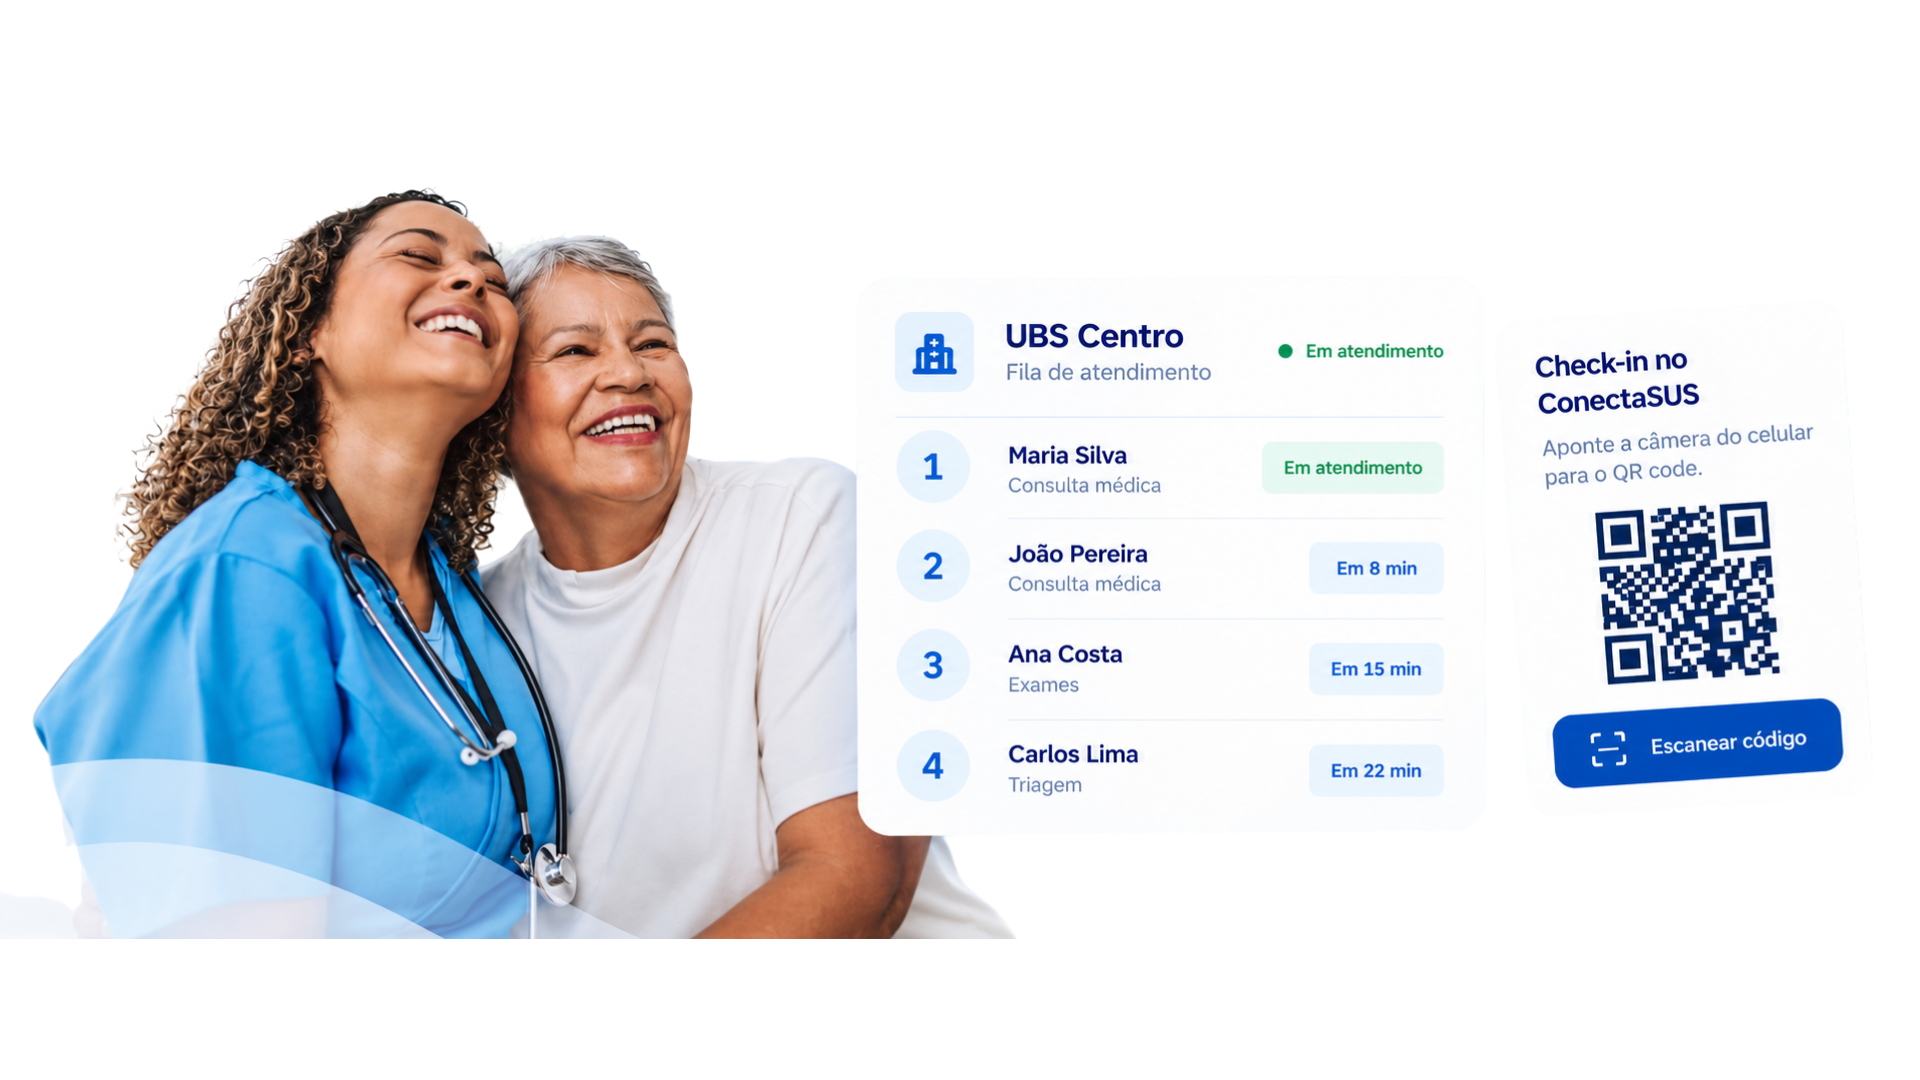
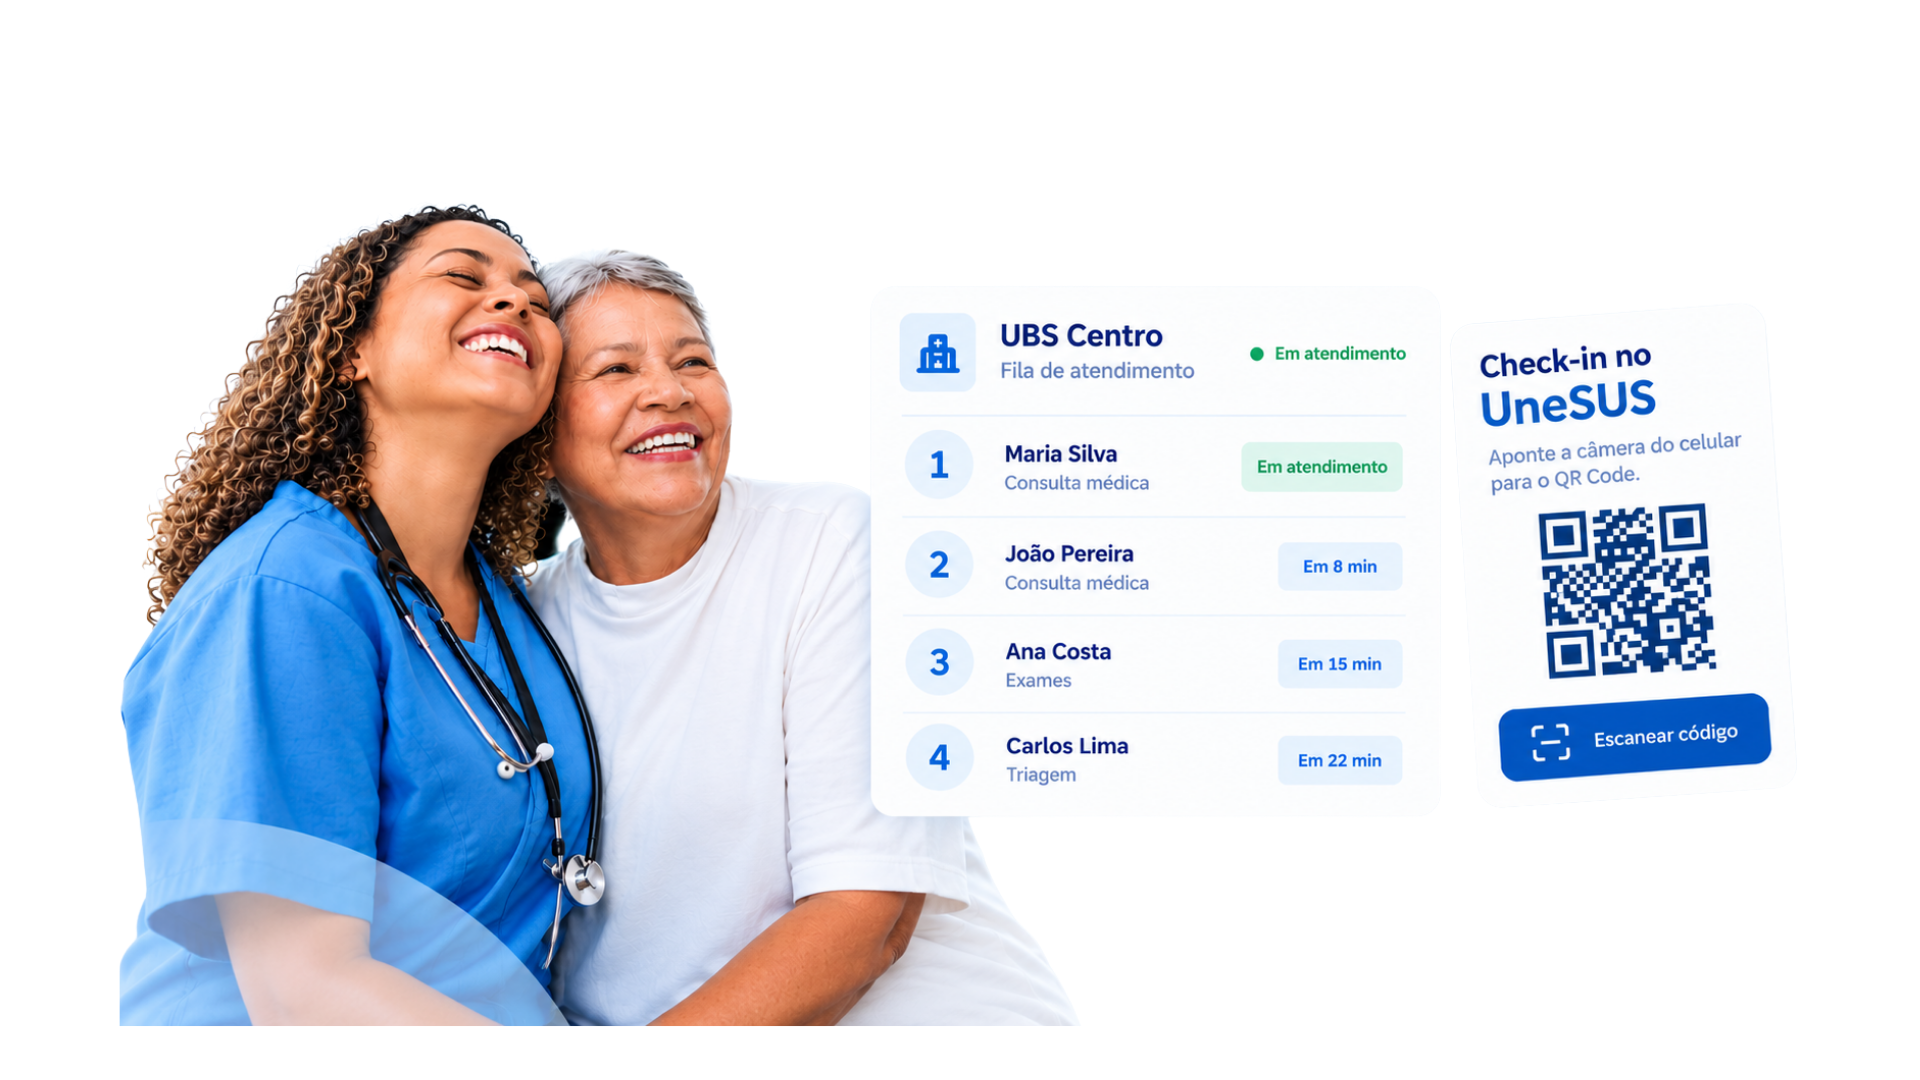
dashboard do publico

diff --git a/frontend/src/app/publico/dashboard/page.jsx b/frontend/src/app/publico/dashboard/page.jsx
@@ -267,9 +267,9 @@ export default function Home() {
 
         {/* DESTAQUES */}
         <div
-          id="unidades"
-          className="mt-12 grid gap-5 rounded-2xl bg-white/70 p-5 shadow-sm sm:p-6 md:grid-cols-3 md:gap-0 md:px-7 md:py-8"
-        >
+  id="unidades"
+  className="mt-20 grid gap-5 rounded-2xl bg-white/70 p-5 shadow-sm sm:p-6 md:grid-cols-3 md:gap-0 md:px-7 md:py-8"
+>
           <div className="flex items-center gap-4 md:border-r md:border-[#3563A7]/30 md:px-4 lg:px-7">
             <div className="flex h-[58px] w-[58px] shrink-0 items-center justify-center rounded-2xl bg-[#EAF3F7] text-[#023E8A] sm:h-[68px] sm:w-[68px]">
               <Icone tipo="users" className="h-8 w-8 sm:h-9 sm:w-9" />
@@ -334,7 +334,7 @@ export default function Home() {
       </span>
 
       <h2 className="mt-5 text-3xl font-extrabold leading-tight sm:text-4xl lg:text-5xl">
-        Sobre o <span className="text-[#023E8A]">ConectaSUS</span>
+        Sobre o <span className="text-[#023E8A]">UneSUS</span>
       </h2>
 
       <p className="mt-6 text-base leading-relaxed text-[#0B1756]/75 sm:text-lg">
@@ -343,7 +343,7 @@ export default function Home() {
       </p>
 
       <p className="mt-5 text-base leading-relaxed text-[#0B1756]/75 sm:text-lg">
-        Por isso, o ConectaSUS propõe aproximar a tecnologia da
+        Por isso, o UneSUS propõe aproximar a tecnologia da
         saúde pública, ajudando a organizar filas, facilitar o
         acesso às informações e tornar o acompanhamento dos
         atendimentos mais simples.
@@ -406,7 +406,7 @@ export default function Home() {
             
 
             <h2 className="mt-5 max-w-2xl text-3xl font-extrabold sm:text-4xl">
-              Por que escolher o ConectaSUS?
+              Por que escolher o UneSUS?
             </h2>
 
             <p className="mt-4 max-w-2xl leading-relaxed text-white/75">

diff --git a/frontend/src/app/components/header/page.jsx b/frontend/src/app/components/header/page.jsx
@@ -42,7 +42,7 @@ export default function Header() {
     publico: [
       {
         nome: "Home",
-        href: "/",
+        href: "/publico/dashboard",
       },
       {
         nome: "Unidades",
